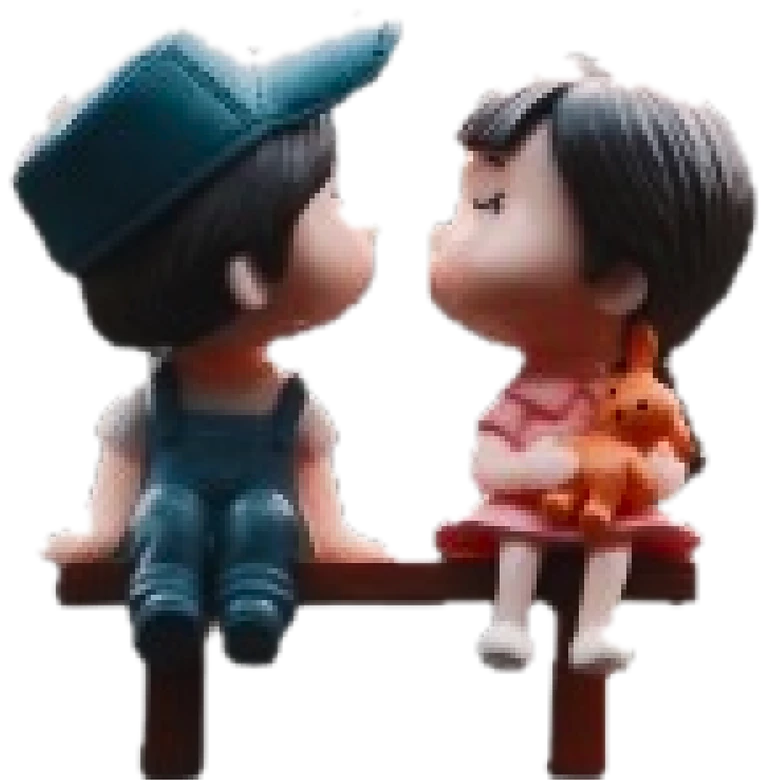
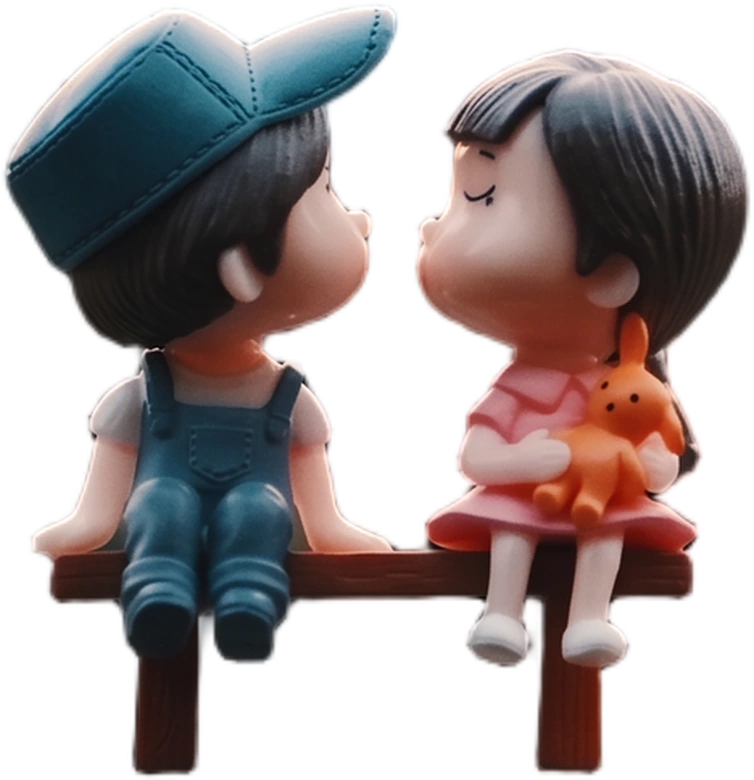
Use the supplied full-resolution cutout for the figurines
Replaces the Figma-derived asset with the original 1999x1332 PNG, which
has the couple at 468x484 native and — crucially — real alpha. No white
background to key out, so none of the floodfill's hard-edged artefacts:
the cap stitching and individual hair strands now resolve, and the edges
are properly anti-aliased.

The upscale to the 2x display size is 1.6x, down from ~2.8x.

WebP stays at 2x (90K); the PNG fallback drops to 1x (195K), which is
plenty for the non-WebP browsers that will ever request it. Assets total
428K, down from 572K.

diff --git a/index.html b/index.html
@@ -456,7 +456,7 @@
     <div class="figures">
       <picture>
         <source srcset="assets/couple.webp" type="image/webp">
-        <img class="couple" src="assets/couple.png" alt="Two figurines sitting together on a bench" width="767" height="780">
+        <img class="couple" src="assets/couple.png" alt="Two figurines sitting together on a bench" width="367" height="380">
       </picture>
     </div>
   </div>
